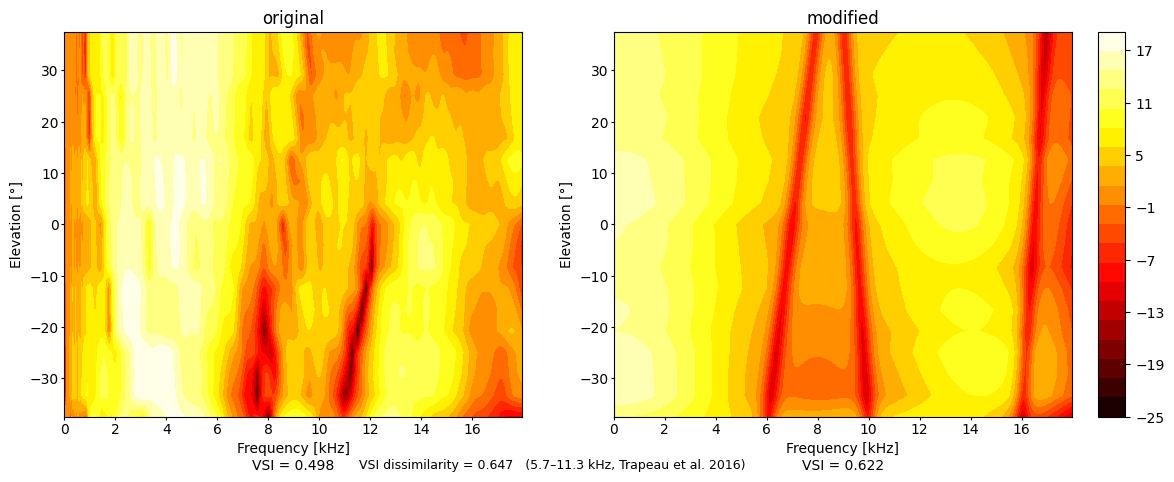
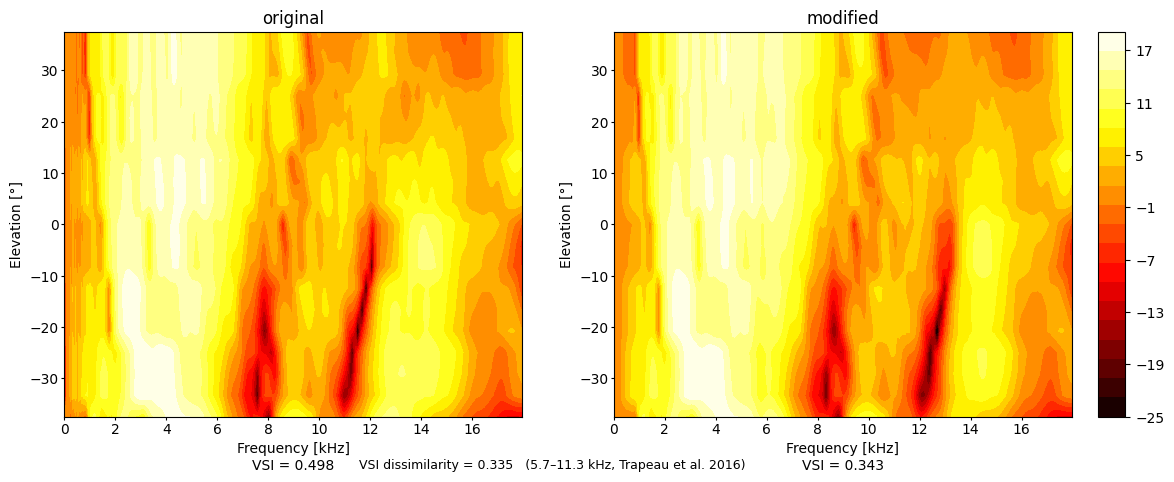
add modified sofas for JS

Changed region(s): [[0.5213, 0.0622, 0.9199, 0.8714], [0.7359, 0.9647, 0.7666, 0.9959]]

diff --git a/hrtf_relearning/hrtf/processing/modify.py b/hrtf_relearning/hrtf/processing/modify.py
@@ -50,7 +50,7 @@ sub_id = 'JS'
 SMOOTH = True
 N_KEEP = 4
 PLOT = 'image'
-fname = 'notch'   # output SOFA suffix: <sub_id>_<fname>.sofa
+fname = 'test_1'   # output SOFA suffix: <sub_id>_<fname>.sofa
 
 # ---------------------------------------------------------------------------
 # Modification mode
@@ -60,10 +60,10 @@ fname = 'notch'   # output SOFA suffix: <sub_id>_<fname>.sofa
 # 'shift' : cepstral envelope/detail split + frequency-shift of the subject's
 #           OWN fine cues inside a band (SHIFT_* params below).  Ignores
 #           SMOOTH / N_KEEP / FEATURES.
-MODE = 'synth'
+MODE = 'shift'
 
 # --- 'shift' mode parameters (only used when MODE == 'shift') --------------
-SHIFT_CENTER    = 8000   # band centre frequency [Hz]
+SHIFT_CENTER    = 9000   # band centre frequency [Hz]
 SHIFT_OCTAVES   = 1.0    # band width in octaves (fraction for octave_band)
 SHIFT_FACTOR    = 1.10   # >1 shifts cues up, <1 down, 1.0 = rebuild no-op
 SHIFT_ENV_NKEEP = 3      # cepstral coeffs kept for the envelope (lower = more detail shifted)
@@ -87,7 +87,7 @@ SHIFT_SKIRT     = 0.25   # cosine taper outside the band [octaves]
 # ---------------------------------------------------------------------------
 FEATURES = [
     {
-        'freqs': (6000, 8000),  # centre freq at X1 and X2 [Hz]
+        'freqs': (7000, 9000),  # centre freq at X1 and X2 [Hz]
         'width': (300,   300),   # Gaussian σ at X1 and X2 [Hz]
         'depth': (12.0,  12.0), # >0 = notch, <0 = peak [dB]
         'X1':    (0, 0),         # anchor 1 (az, az)
@@ -95,14 +95,14 @@ FEATURES = [
     },
     # Add further features here, e.g.:
     {
-        'freqs': (9000, 10000),
+        'freqs': (11000, 12500),
         'width': (300, 300),
         'depth': (12, 12),   # negative → peak
         'X1': (0, 0),
-        'X2': (40, -40),
+        'X2': (-40, 40),
     },
     {
-        'freqs': (16000, 17000),
+        'freqs': (17000, 16000),
         'width': (300, 300),
         'depth': (12, 12),  # negative → peak
         'X1': (0, 0),
@@ -695,7 +695,7 @@ if __name__ == '__main__':
     fig = plot(hrtf, hrtf_modified, PLOT, ear='right',
                vsi_orig=vsi_orig, vsi_mod=vsi_mod, vsi_dis=vsi_dis, vsi_bw=VSI_BW)
     input('press enter to save')
-    fig.savefig(PATH / 'data' / 'results' / 'plot' / sub_id / str(sub_id + '_modified.png'),
+    fig.savefig(PATH / 'data' / 'results' / 'plot' / sub_id / str(sub_id + f'_{fname}.png'),
                 bbox_inches='tight')
     (hrtf_dir / sub_id).mkdir(parents=True, exist_ok=True)
     hrtf_modified.write_sofa(hrtf_dir / sub_id / str(sub_id + f'_{fname}.sofa'))